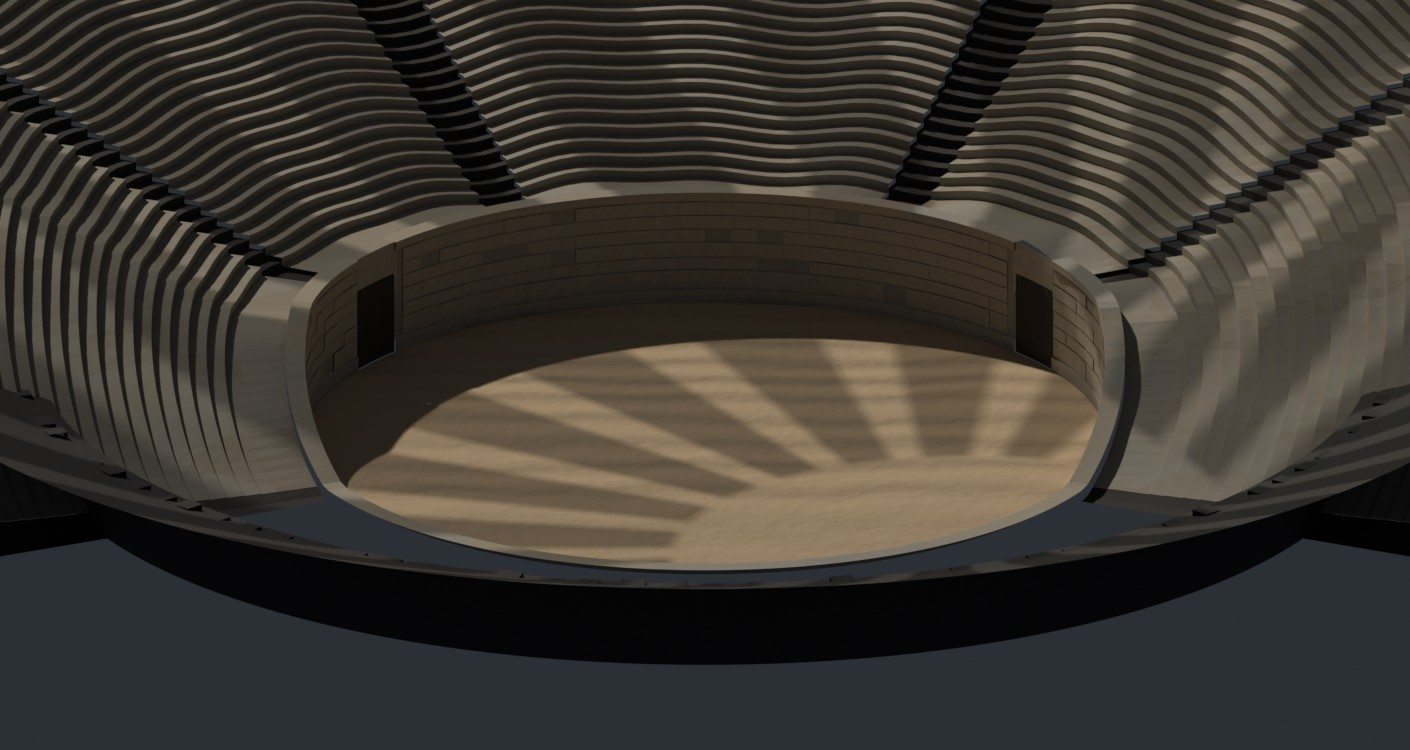
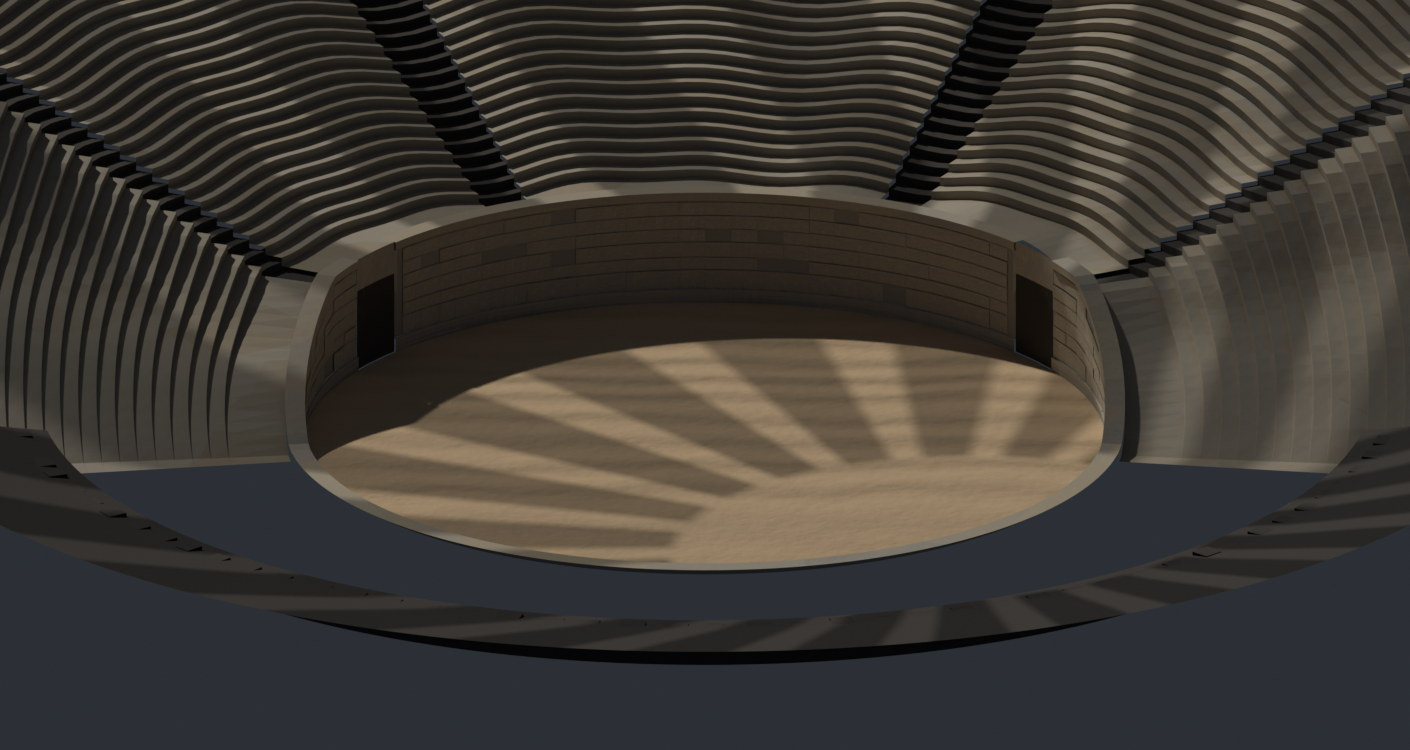
feat(arena): [15]§10.22 전면부 컷오프 — 컷어웨이 82° · 앞 실루엣 0.55배
앞쪽 실루엣이 화면 하단 5분의 1을 검게 덮고 있었다.
  --cut-keep 65 → 82 · --cut-fade 35 → 30 · --fg-h 0.55(신설)

보이는 창 940×528, dolly_00 하단 18%:
  평균 밝기      27.8 → 52.4
  어두운 픽셀    69.1% → 22.7%
줌이 들어갈수록 더 열린다 — 22.9 / 16.1 / 11.9 / 14.3%(00·08·16·23)

배포: 24장 · 1410×750 · JPEG q88 · 2.9 MB(장당 121 KB)
검산: 상단 20px 최대 228(세로 오버스캔 유지) · 하단 90px 평균 91.7(모래)
      프레임 3.7 ms(줌 1.6) · 콘솔 0 · designlint 0

Changed region(s): [[0.0, 0.1533, 1.0, 0.8893]]

diff --git a/15_경기장_설계서.md b/15_경기장_설계서.md
@@ -1075,6 +1075,43 @@ Photino 셸에는 브라우저 크롬이 없으므로 ①만으로도 이미 전
 
 > **검증 함정:** Browser 창이 안 떠 있으면 `document.visibilityState === 'hidden'`이라 **CSS 트랜지션이 `currentTime 0`에서 얼어붙는다.** 그 상태로 `getComputedStyle(...).opacity`를 읽으면 언제나 시작값(1)이 나온다 — 규칙이 안 먹는 것처럼 보인다. 트랜지션을 잠깐 끄고 재면 1↔0이 정상으로 나온다.
 
+### 10.22 전면부를 더 걷어낸다 — 컷어웨이 82° · 실루엣 0.55배 (2026-08-04)
+
+라니스타 지시: "전면부 벽이나 관중석은 더 컷오프해서 화면에 안 거슬리게."
+
+앞쪽 실루엣(`fg_cavea` + 이빨)이 화면 하단 5분의 1을 검게 덮고 있었다. 두 인자를 함께 움직였다.
+
+| 인자 | 이전 | 이번 | 뜻 |
+|---|---|---|---|
+| `--cut-keep` | 65° | **82°** | 앞쪽에서 통째로 걷어내는 각반경 |
+| `--cut-fade` | 35° | **30°** | 걷어낸 곳에서 온전한 높이로 올라오는 폭 |
+| `--fg-h` | (없음) | **0.55** | 앞쪽 실루엣 높이 배율 — 새로 뺀 인자 |
+
+**결과 (보이는 창 940×528 기준, `dolly_00`):**
+
+| 하단 18% | 이전 | 이번 |
+|---|---|---|
+| 평균 밝기 | 27.8 | **52.4** |
+| 어두운 픽셀(<45) | 69.1% | **22.7%** |
+
+프레임이 뒤로 갈수록(줌이 들어갈수록) 더 열린다 — 어두운 픽셀 22.9% → 16.1% → 11.9% → 14.3%(00·08·16·23).
+
+> **딸린 변경 — 뷰어의 관중 컷 램프도 같이 움직여야 한다.** `paintCrowd`의 `cut()`은 `blockout.py`의 `cutaway()`와 **같은 램프**를 써야 한다. 어긋나면 걷어낸 자리에 관중만 남아 허공에 뜬다. 65/35 → 82/30으로 맞추고 상수(`CUT_KEEP`/`CUT_FADE`)로 빼 대응 관계를 명시했다.
+> 관중 손실은 미미했다 — 프레임 안 **184 → 180명**. 지배적인 필터는 컷 램프가 아니라 벽 가림이었다.
+
+**배포·검산 (2026-08-04):** 24장 · 1410×750 · JPEG 품질 88 → **2.9 MB(장당 121 KB)**.
+
+| 항목 | 값 | 판정 |
+|---|---|---|
+| 상단 20 px 밴드 최대 | **228** | 세로 오버스캔 유지(무대 밖 어둠이면 20~46) ✓ |
+| 하단 90 px 밴드 평균 | **91.7** (최대 137) | 모래다. 검은 실루엣이 물러났다 ✓ |
+| 프레임 비용 | **3.7 ms** (줌 1.6) | 60 fps 예산의 22% |
+| 콘솔 오류 · designlint | 0 · 0 | ✓ |
+
+> **작업 메모:** PNG→JPEG 배포를 세 번째 손으로 하고 있었다 → `tools/arenabake/deploy_dolly.py`로 고정했다. 새 시퀀스가 더 짧을 때 **옛 프레임이 섞이지 않도록 먼저 지운다**(24장 → 16장으로 줄이면 17~24가 남는다).
+>
+> **검증 함정(§10.21에 이어):** Browser 창이 안 떠 있으면 `requestAnimationFrame`도 얼어붙는다. rAF를 기다리는 측정 코드는 그대로 30초 타임아웃이 난다 — **`tick()`을 직접 부르면** 된다.
+
 ### 10.15 B4 교체 계획 — 뷰어에서 무엇을 지우고 무엇을 넣나
 
 베이크가 끝나면 뷰어 교체는 **삭제가 대부분**이다. 대상 지점을 미리 짚어둔다(`viewer.html`).
